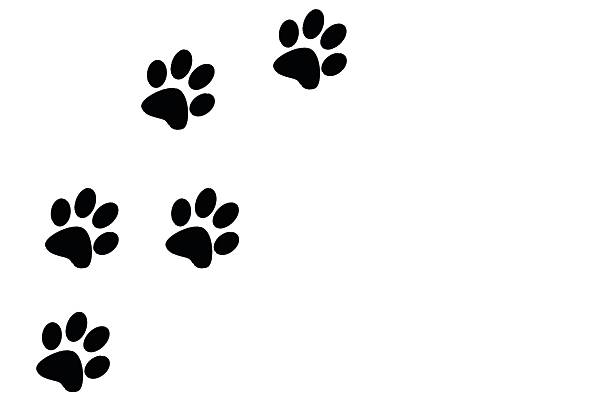
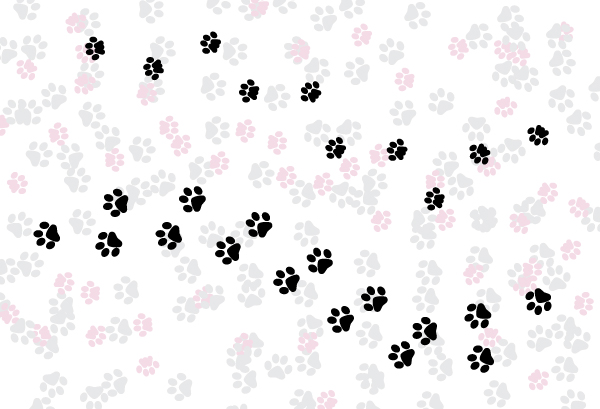
changed background again

diff --git a/public/assets/css/style.css b/public/assets/css/style.css
@@ -3,9 +3,11 @@ body {
     background-image: url("../images/paw-prints-background.jpg");
 }
 #mainBody{
-    width: 80%;
+    width: 70%;
     margin: 0 auto;
     min-height: 400px;
+    background: #fff;
+    border: 1px solid blue;
 }
 
 h1 {
